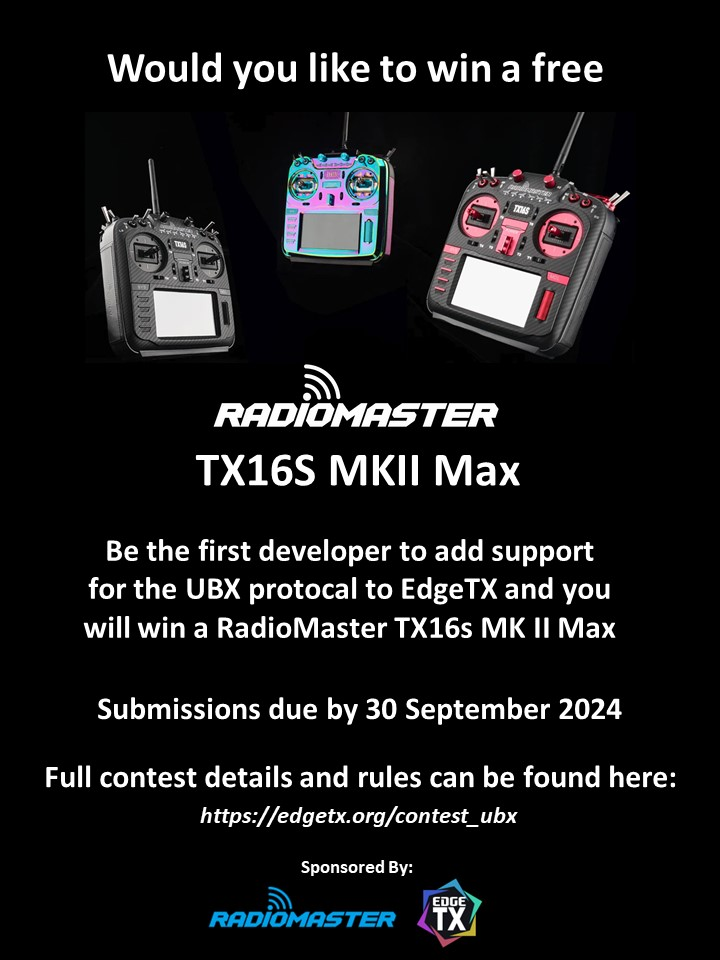
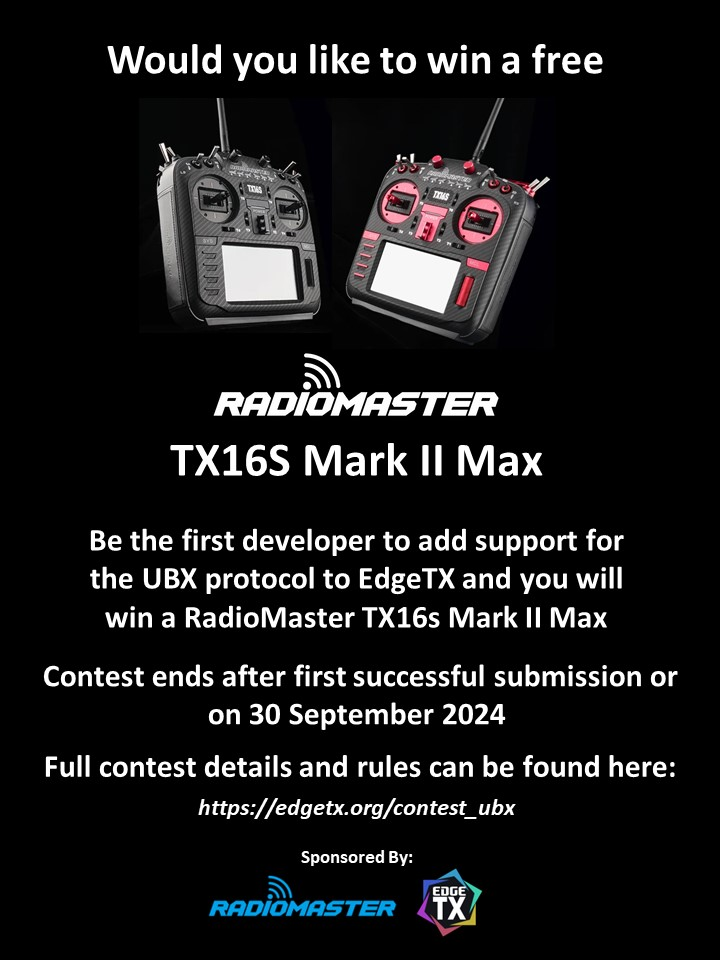
Updated the poster

Changed region(s): [[0.0611, 0.0312, 0.9472, 0.9688], [0.5806, 0.9062, 0.6722, 1.0]]

diff --git a/docs/contest_ubx.md b/docs/contest_ubx.md
@@ -26,12 +26,12 @@ The following doc could also be interesting from page 63: [https://www.yumpu.com
 
 **Prize:**
 
-RadioMaster TX16S MKII MAX radio (sponsored by RadioMaster). The radio will be shipped world-wide free of charge directly from the RadioMaster factory to the winner.
+[RadioMaster TX16S MKII MAX](https://www.radiomasterrc.com/products/tx16s-mark-ii-max-radio-controller) radio (sponsored by RadioMaster). The radio will be shipped world-wide free of charge directly from the RadioMaster factory to the winner.
 
 ***Note:*** the contest winner will need to cover all import/customs fees for the prize. However, those fees will be re-imbursed by the EdgeTX via expense submission to the EdgeTX Open Collective.
 
 
-**Submissions due by 30 September 2024**
+**Contest ends after first successful submission or on 30 September 2024**
 
 
 **If you have questions about the contest, feel free on our discord at the [#ubx-contest channel](https://discord.com/channels/839849772864503828/1210916167976361984)**
